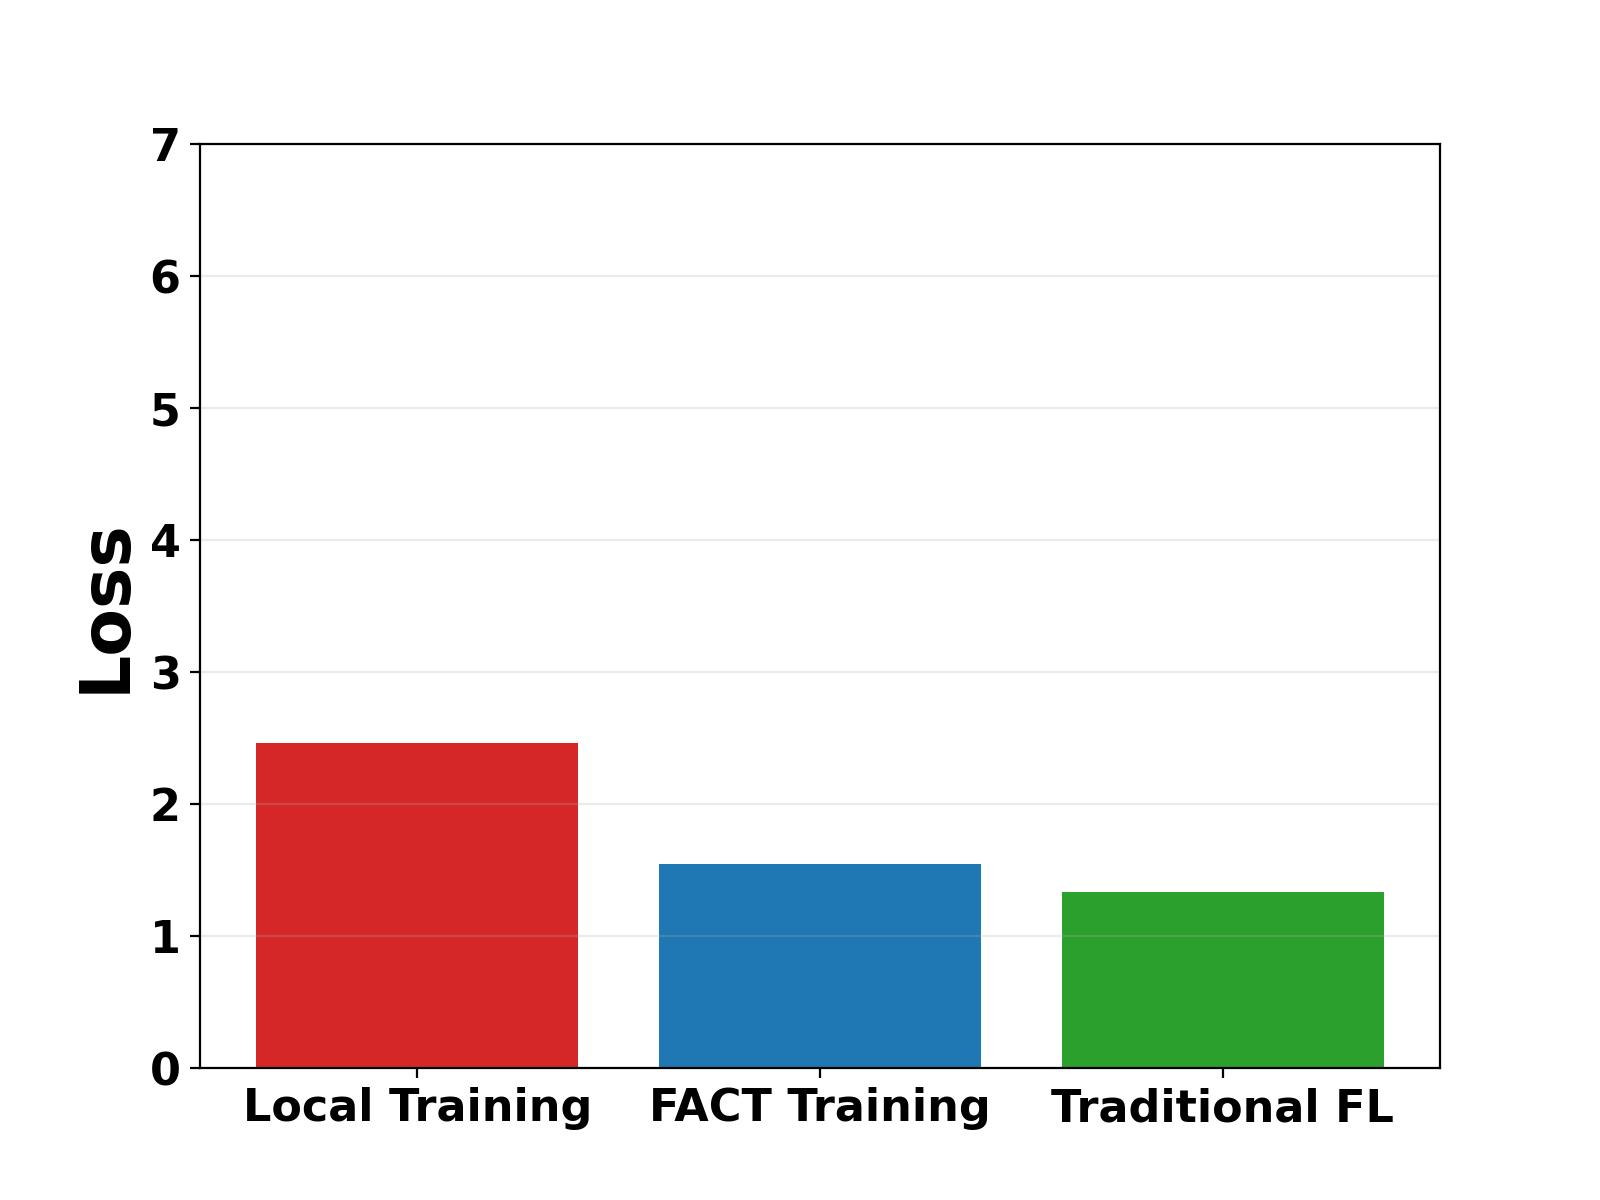
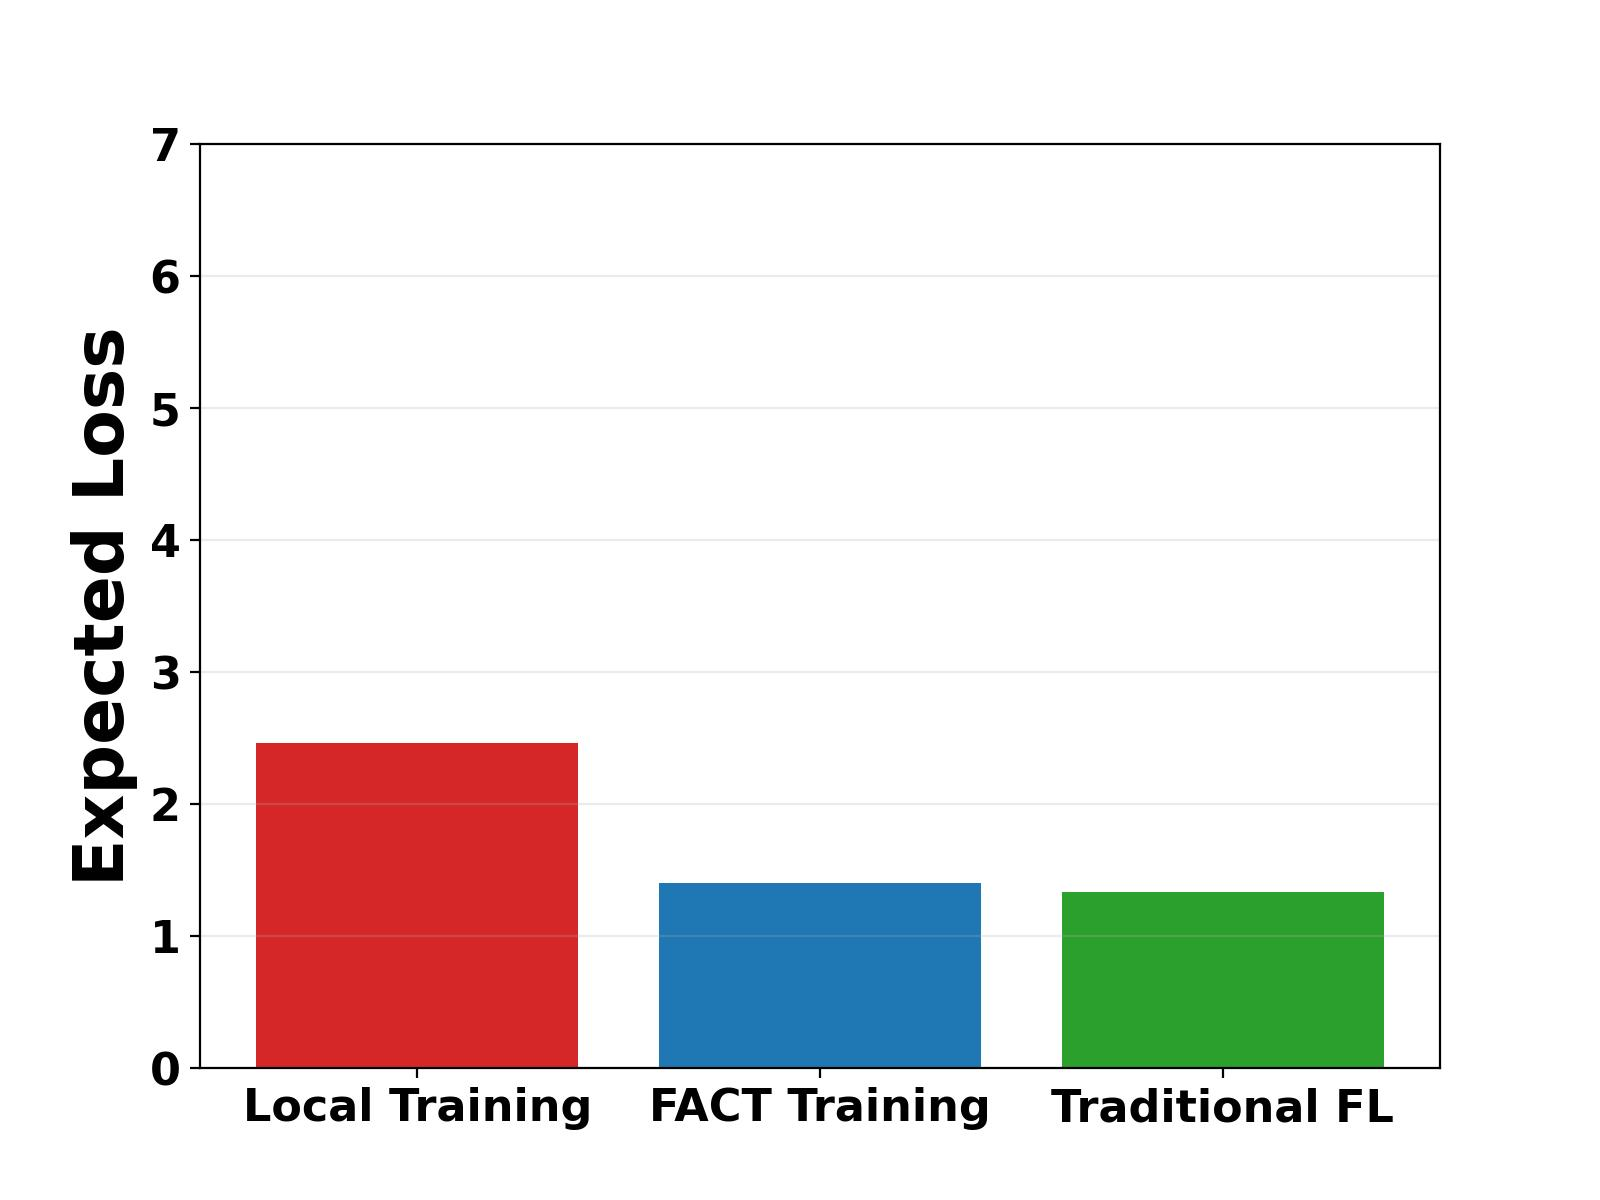
fix plot errors

Changed region(s): [[0.0312, 0.2775, 0.0938, 0.74], [0.4062, 0.7092, 0.625, 0.74]]

diff --git a/experiments.py b/experiments.py
@@ -116,16 +116,16 @@ class Postprocessing:
             fbr = np.empty((num_agents, h))
             fl = np.empty(num_agents)
             for i in tqdm(range(num_agents)):
-                fl[i], fbr[i, :] = truthfulness_mechanism(mc, num_data, avg_agent_net[i], avg_other_agent_net[i],
+                fl[i], fbr[i, :] = truthfulness_mechanism(mc, num_data, avg_local_loss, avg_agent_net[i], avg_other_agent_net[i],
                                                           num_agents, h=h, normal=True, agents=2000, rounds=100000)
 
             avg_fbr = np.mean(fbr, axis=0) + penalty
 
             # plot truthfulness
-            plt.plot(epsilons, net_loss - avg_fbr, self.colors[0], label=label_add[v], linestyle=ls[v])
+            plt.plot(epsilons, avg_fbr, self.colors[0], label=label_add[v], linestyle=ls[v])
 
         plt.xlabel('Percent (%) Added/Subtracted from True Cost $c_i$', fontsize=20, weight='bold')
-        plt.ylabel('Net Improvement in Loss', fontsize=20, weight='bold')
+        plt.ylabel('Expected Improvement in Loss', fontsize=20, weight='bold')
 
         if dataset.lower() != 'ham':
             plt.legend(loc='upper left', fontsize=15)
@@ -182,7 +182,7 @@ class Postprocessing:
         fbr = np.empty((num_agents, h))
         fl = np.empty(num_agents)
         for i in tqdm(range(num_agents)):
-            fl[i], fbr[i, :] = truthfulness_mechanism(mc, num_data, avg_agent_net[i], avg_other_agent_net[i],
+            fl[i], fbr[i, :] = truthfulness_mechanism(mc, num_data, avg_local_loss, avg_agent_net[i], avg_other_agent_net[i],
                                                       num_agents, h=h, normal=True, agents=2000, rounds=100000)
 
         fact_loss = np.mean(fl) + penalty
@@ -191,9 +191,9 @@ class Postprocessing:
         # plot results
         plt.figure(figsize=(8, 6))
         plt.bar(["Local Training", 'FACT Training', 'Traditional FL'],
-                [avg_local_loss, fact_loss+avg_fed_loss, avg_fed_loss],
+                [avg_local_loss, fact_loss, avg_fed_loss],
                 color=['tab:red', 'tab:blue', 'tab:green'])
-        plt.ylabel('Loss', fontsize=25, weight='bold')
+        plt.ylabel('Expected Loss', fontsize=25, weight='bold')
         plt.xticks(fontsize=17, weight='bold')
         plt.yticks(fontsize=17, weight='bold')
         if dataset.lower() == 'cifar10':
@@ -246,6 +246,11 @@ class Postprocessing:
         elif loss and dataset.lower() == 'cifar10':
             plt.ylim([0, 1.25 * 10**2])
             plt.yscale("symlog")
+        elif not loss and dataset.lower() == 'cifar10':
+            plt.ylim([0.1, 0.8])
+        elif not loss and dataset.lower() == 'mnist':
+            plt.ylim([0.75, 1.])
+
         plt.xlim([1, epochs])
         plt.grid(alpha=0.25)
 
@@ -398,23 +403,31 @@ if __name__ == '__main__':
     pp = Postprocessing()
 
     # loss plots
-    pp.run_loss_plot(ham_random_path_iid, save_file='iid', runs=3, loss=False)
-    pp.run_loss_plot(ham_random_path_iid, save_file='iid', runs=3, loss=True)
+    ## pp.run_loss_plot(ham_random_path_iid, save_file='iid', runs=3, loss=False)
+    ## pp.run_loss_plot(ham_random_path_iid, save_file='iid', runs=3, loss=True)
 
-    # pp.run_loss_plot(cifar10_random_path_iid, save_file='iid', runs=3, loss=False)
+    # pp.run_loss_plot(mnist_random_path_iid, save_file='iid', runs=3, loss=False)
     # pp.run_loss_plot(cifar10_random_path_iid, save_file='iid', runs=3, loss=True)
-    # pp.run_loss_plot(cifar10_random_path_noniid6, save_file='noniid6', runs=3, loss=False)
+    # pp.run_loss_plot(mnist_random_path_noniid6, save_file='noniid6', runs=3, loss=False)
     # pp.run_loss_plot(cifar10_random_path_noniid6, save_file='noniid6', runs=3, loss=True)
-    # pp.run_loss_plot(cifar10_random_path_noniid3, save_file='noniid3', runs=3, loss=False)
+    # pp.run_loss_plot(mnist_random_path_noniid3, save_file='noniid3', runs=3, loss=False)
     # pp.run_loss_plot(cifar10_random_path_noniid3, save_file='noniid3', runs=3, loss=True)
 
-    # loss histogram and truthfulness plots
-    pp.run_loss_histogram(ham_random_path_iid, save_file='iid', runs=3)
-    # pp.run_loss_histogram(cifar10_random_path_noniid6, save_file='noniid6')
-    # pp.run_loss_histogram(cifar10_random_path_noniid3, save_file='noniid3')
+    # loss histogram
+    # pp.run_loss_histogram(ham_random_path_iid, save_file='iid', runs=3)
+
+    pp.run_loss_histogram(cifar10_random_path_iid, save_file='iid', runs=3)
+    pp.run_loss_histogram(cifar10_random_path_noniid6, save_file='noniid6')
+    pp.run_loss_histogram(cifar10_random_path_noniid3, save_file='noniid3')
+
+    pp.run_loss_histogram(mnist_random_path_iid, save_file='iid', runs=3)
+    pp.run_loss_histogram(mnist_random_path_noniid6, save_file='noniid6')
+    pp.run_loss_histogram(mnist_random_path_noniid3, save_file='noniid3')
 
     # penalty for using suboptimal data contributions
-    pp.penalty(ham_random_path_iid, save_file='penalty', offset=1)
+    ## pp.penalty(ham_random_path_iid, save_file='penalty', offset=1)
 
     # truthfulness plots
-    pp.truthfulness_plots([ham_random_path_iid], save_file='vary-dist', runs=3)
+    ## pp.truthfulness_plots([ham_random_path_iid], save_file='vary-dist', runs=3)
+    pp.truthfulness_plots(combined_cifar, save_file='vary-dist', runs=3)
+    pp.truthfulness_plots(combined_mnist, save_file='vary-dist', runs=3)

diff --git a/utils/truthfulness.py b/utils/truthfulness.py
@@ -18,7 +18,7 @@ def sandwich_game(reported_cost, random_costs):
     return lower_boolean * upper_boolean, 3
 
 
-def truthfulness_mechanism(true_cost, num_data, agent_net_loss, other_agent_avg_net_loss, num_agents,
+def truthfulness_mechanism(true_cost, num_data, local_loss, agent_net_loss, other_agent_avg_net_loss, num_agents,
                            agents=1000, rounds=20000, h=81, normal=True):
 
     benefit_random = np.zeros(shape=(rounds, h))
@@ -33,7 +33,7 @@ def truthfulness_mechanism(true_cost, num_data, agent_net_loss, other_agent_avg_
     reported_costs = true_cost * (1 + epsilons)
 
     # benefit of lying about cost
-    data_cost_net = num_data * (true_cost - reported_costs)
+    # data_cost_net = num_data * (true_cost - reported_costs)
 
     # multiple rounds for random simulation
     for r in range(rounds):
@@ -46,15 +46,21 @@ def truthfulness_mechanism(true_cost, num_data, agent_net_loss, other_agent_avg_
         booleans_random, multiplier_random = sandwich_game(reported_costs, random_costs)
 
         # compute reward from FACT for given round
-        benefit_random[r, :] = data_cost_net + agent_net_loss - (multiplier_random * booleans_random * fact_reward)
+        # benefit_random[r, :] = data_cost_net + local_loss - (multiplier_random * booleans_random * fact_reward)  # this is what the device thinks
+        benefit_random[r, :] = 2 * booleans_random * fact_reward  # this is the expected improvement (thinks it wins 50% of time, so divide by three and multiple by 2)
 
     # find average benefit
     avg_benefit_random = np.mean(benefit_random, axis=0)
 
-    # determine average loss for FACT over the three randomly selected devices
+    # fact loss
+    fact_loss = local_loss - (other_agent_avg_net_loss * (num_agents - 1) / num_agents)
+
+    """
+    # determine average loss for FACT over the three randomly selected devices (what's the expected gain)
     three_agent_net_loss = agent_net_loss + 2 * other_agent_avg_net_loss
     three_agent_fact_rewards = fact_reward + 2 * ((other_agent_avg_net_loss * (num_agents - 2) / num_agents)
                                                   + agent_net_loss / num_agents)
     fact_loss = three_agent_net_loss - three_agent_fact_rewards
+    """
 
     return fact_loss, avg_benefit_random

diff --git a/ham.py b/ham.py
@@ -247,7 +247,7 @@ if __name__ == '__main__':
     net_losses = np.empty(size, dtype=np.float64)
     comm.Allgather(np.array([agent_net_loss], dtype=np.float64), net_losses)
     average_other_agent_loss = (np.sum(net_losses) - agent_net_loss) / (size - 1)
-    fact_loss, avg_benefit_random = truthfulness_mechanism(marginal_cost, num_data, agent_net_loss,
+    fact_loss, avg_benefit_random = truthfulness_mechanism(marginal_cost, num_data, loss_local, agent_net_loss,
                                                            average_other_agent_loss, size, agents=1000,
                                                            rounds=100000, h=81, normal=True)
     recorder.save_benefits(agent_net_loss, average_other_agent_loss, fact_loss, avg_benefit_random)
